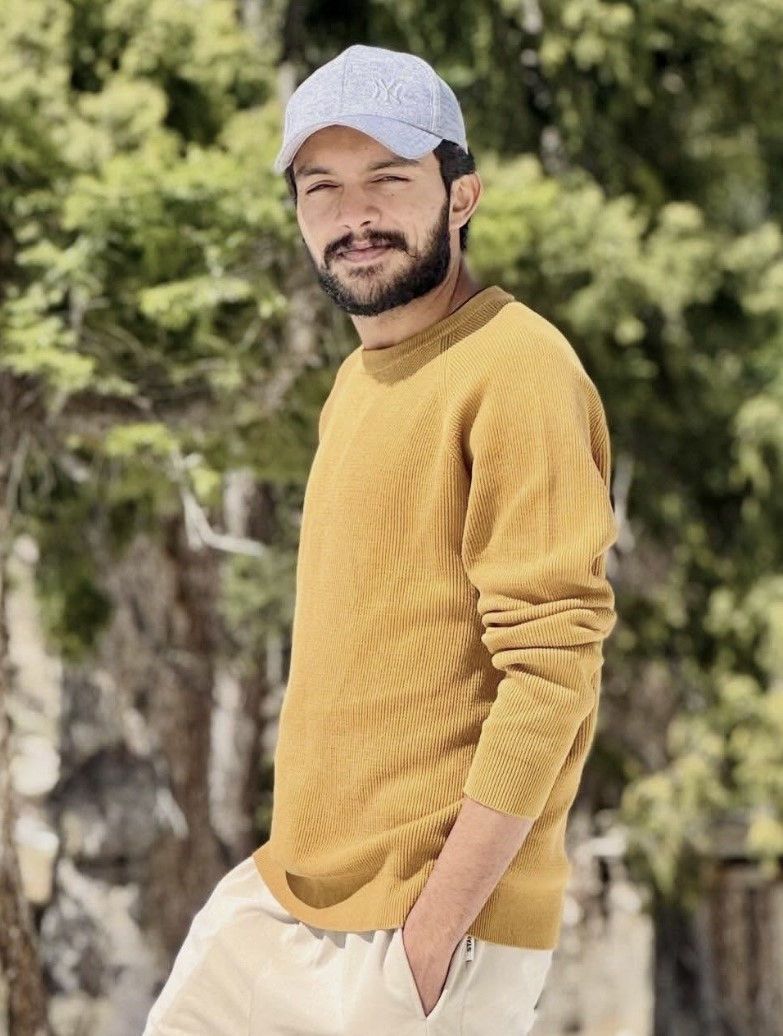
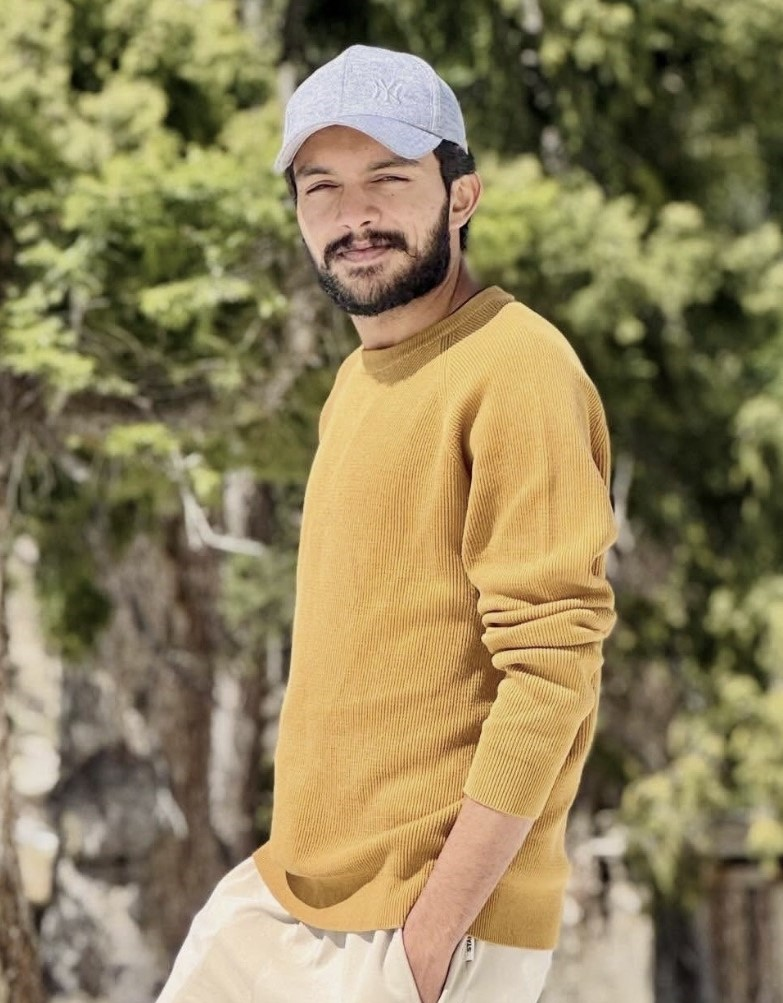
Updated style

diff --git a/index.html b/index.html
@@ -10,6 +10,12 @@
     <link rel="stylesheet" href="styles.css?v=1.1">
     <link href="https://fonts.googleapis.com/css2?family=Poppins:wght@300;400;600;700&display=swap" rel="stylesheet">
     <style>
+        /* Center the person inside the first profile circle perfectly */
+        #member1-img {
+            object-fit: cover !important;
+            object-position: 62% center !important; /* Adjusts horizontal focus slightly to the right */
+        }
+
         /* Direct override to fix mobile image sizes instantly */
         @media (max-width: 768px) {
             .team-img-wrapper {